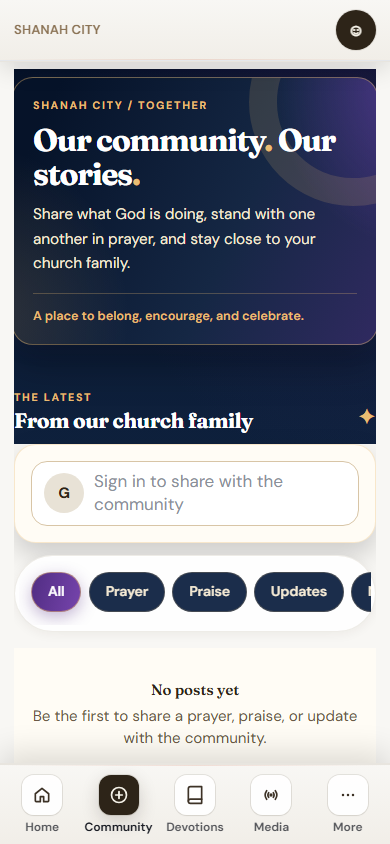
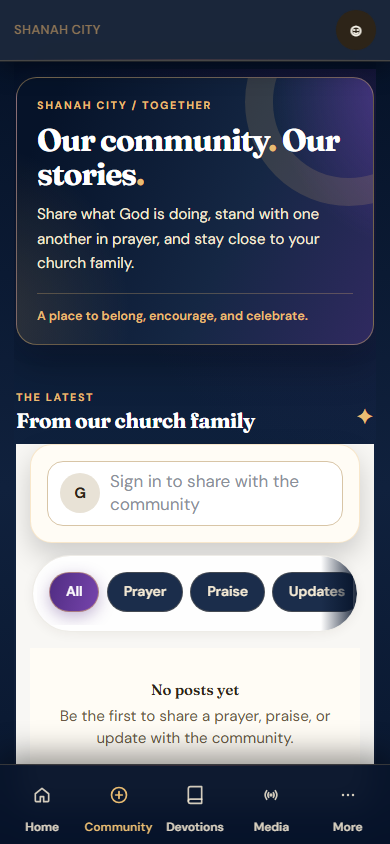
Premium V4 community visual QA: gutters, filters, cinematic nav.
16px feed gutters, scroll affordance on filter pills, shared cinematic mobile chrome, and refreshed Playwright captures.

diff --git a/src/app/premium-v4-cinematic-chrome.css b/src/app/premium-v4-cinematic-chrome.css
@@ -1,0 +1,69 @@
+/* Premium V4 cinematic shell ΓÇö mobile header/nav on live, sermons, community */
+
+body.premium-v4-cinematic-active {
+  background: #061329 !important;
+}
+
+body.premium-v4-cinematic-active .app-main {
+  background: linear-gradient(180deg, #061329 0%, #10213d 48%, #061329 100%);
+}
+
+body.premium-v4-cinematic-active .mobile-app-header,
+body.premium-v4-cinematic-active[data-shell="mobile"] .mobile-app-header {
+  background: rgba(6, 19, 41, 0.92) !important;
+  border-bottom-color: rgba(233, 188, 114, 0.22) !important;
+  backdrop-filter: blur(16px);
+  box-shadow: 0 1px 0 rgba(233, 188, 114, 0.12), 0 8px 24px rgba(0, 0, 0, 0.35) !important;
+}
+
+body.premium-v4-cinematic-active .mobile-app-header .text-night-900,
+body.premium-v4-cinematic-active .mobile-app-header .text-night-700,
+body.premium-v4-cinematic-active .mobile-app-header .text-night-600 {
+  color: #f6ebd5 !important;
+}
+
+body.premium-v4-cinematic-active .app-mobile-bottom-nav,
+body.premium-v4-cinematic-active[data-shell="mobile"] .mobile-bottom-nav {
+  background: rgba(6, 19, 41, 0.97) !important;
+  border-top: 1px solid rgba(233, 188, 114, 0.2) !important;
+  box-shadow: 0 -8px 32px rgba(0, 0, 0, 0.45) !important;
+}
+
+body.premium-v4-cinematic-active[data-shell="mobile"] .mobile-bottom-nav::after {
+  background: rgba(6, 19, 41, 0.97) !important;
+}
+
+body.premium-v4-cinematic-active[data-shell="mobile"] .mobile-bottom-nav .mobile-nav-link,
+body.premium-v4-cinematic-active[data-shell="mobile"] .mobile-bottom-nav .mobile-nav-link.text-night-700,
+body.premium-v4-cinematic-active[data-shell="mobile"] .mobile-bottom-nav .mobile-nav-link.text-night-900 {
+  color: #f6ebd5e0 !important;
+}
+
+body.premium-v4-cinematic-active[data-shell="mobile"] .mobile-bottom-nav .mobile-nav-link.is-active,
+body.premium-v4-cinematic-active[data-shell="mobile"] .mobile-bottom-nav .mobile-nav-link.is-active.text-night-900 {
+  color: #e9bc72 !important;
+}
+
+body.premium-v4-cinematic-active[data-shell="mobile"] .mobile-bottom-nav .mobile-nav-label {
+  color: inherit !important;
+  opacity: 1 !important;
+}
+
+body.premium-v4-cinematic-active[data-shell="mobile"] .mobile-nav-icon-shell,
+body.premium-v4-cinematic-active[data-shell="mobile"] .mobile-nav-icon-shell[class*="bg-"] {
+  background: transparent !important;
+  background-color: transparent !important;
+  box-shadow: none !important;
+  --tw-ring-shadow: 0 0 #0000 !important;
+  --tw-shadow: 0 0 #0000 !important;
+  border: none !important;
+  color: inherit !important;
+}
+
+body.premium-v4-cinematic-active[data-shell="mobile"] .mobile-nav-link.is-active .mobile-nav-icon-shell {
+  color: #e9bc72 !important;
+}
+
+body.premium-v4-cinematic-active[data-shell="mobile"] .mobile-nav-link:not(.is-active) .mobile-nav-icon-shell {
+  color: #f6ebd5d9 !important;
+}

diff --git a/src/app/community/community-refresh.css b/src/app/community/community-refresh.css
@@ -71,7 +71,8 @@
   align-items: end;
   justify-content: space-between;
   gap: 1rem;
-  margin: 1.2rem .875rem .7rem;
+  margin: 1.2rem 1rem .7rem;
+  padding-inline: 0;
 }
 .community-refresh-feed-heading h2 {
   margin: .24rem 0 0;
@@ -187,8 +188,8 @@
   padding: 2rem 1rem;
 }
 @media (max-width: 640px) {
-  .community-refresh-hero { margin-inline: .75rem; border-radius: 1.3rem; padding: 1.25rem; }
-  .community-refresh-feed-heading { margin-inline: .875rem; }
+  .community-refresh-hero { margin-inline: 1rem; border-radius: 1.3rem; padding: 1.25rem; }
+  .community-refresh-feed-heading { margin-inline: 1rem; }
   body[data-shell="mobile"] .community-refresh .community-feed-solid .community-post-card {
     border: 1px solid var(--color-border);
     border-radius: 1.3rem;
@@ -272,8 +273,39 @@ html.dark .community-refresh.sc-v4-community .community-refresh-kicker {
 }
 .community-refresh.sc-v4-community .community-page-stories {
   border-radius: 1rem;
-  margin-inline: .75rem;
+  margin-inline: 1rem;
   padding: .25rem 0;
+  max-width: calc(100% - 2rem);
+}
+.community-refresh.sc-v4-community .community-refresh-feed-heading {
+  margin-inline: 1rem;
+}
+.community-refresh.sc-v4-community .community-feed-tabs-sticky {
+  margin-inline: 1rem;
+  max-width: calc(100% - 2rem);
+  overflow: hidden;
+  border-radius: 9999px;
+}
+.community-refresh.sc-v4-community .community-feed-tabs-sticky::after {
+  content: "";
+  position: absolute;
+  top: 0;
+  right: 0;
+  bottom: 0;
+  width: 2.25rem;
+  pointer-events: none;
+  border-radius: 0 9999px 9999px 0;
+  background: linear-gradient(to left, rgba(6, 19, 41, .92), transparent);
+}
+.community-refresh.sc-v4-community .community-feed-tabs {
+  flex-wrap: nowrap;
+  scroll-padding-inline: 1rem;
+  -webkit-overflow-scrolling: touch;
+  overscroll-behavior-x: contain;
+}
+.community-refresh.sc-v4-community .community-feed-solid {
+  margin-inline: 1rem;
+  max-width: calc(100% - 2rem);
 }
 .community-refresh.sc-v4-community .community-feed-header {
   border: 1px solid rgba(233,188,114,.32);
@@ -331,8 +363,8 @@ html.dark .community-refresh.sc-v4-community .community-post-meta-type {
   outline-offset: 3px;
 }
 @media (max-width: 640px) {
-  .community-refresh.sc-v4-community { border-radius: 0; }
-  .community-refresh.sc-v4-community .community-refresh-hero { margin-inline: .75rem; }
+  .community-refresh.sc-v4-community { border-radius: 0; padding-inline: 0; }
+  .community-refresh.sc-v4-community .community-refresh-hero { margin-inline: 1rem; }
 }
 @media (prefers-reduced-motion: reduce) {
   .community-refresh.sc-v4-community *, 

diff --git a/e2e/premium-v4-community-mobile.spec.ts b/e2e/premium-v4-community-mobile.spec.ts
@@ -7,6 +7,7 @@ import {
   assertNoRuntimeErrors,
   waitForImages,
 } from "./premium-v4-screenshot-helpers";
+import { signInForCommunityScreenshots } from "./helpers/community-screenshot-auth";
 
 const artifactDir = path.join(
   process.cwd(),
@@ -28,7 +29,19 @@ test.describe("Premium V4 community mobile screenshots", () => {
       const { pageErrors, consoleErrors } = attachErrorCollectors(page);
       await page.setViewportSize({ width: vp.width, height: vp.height });
 
+      const signedIn = await signInForCommunityScreenshots(page);
+      if (!signedIn) {
+        test.info().annotations.push({
+          type: "note",
+          description:
+            "Guest capture — set PLAYWRIGHT_COMMUNITY_EMAIL and PLAYWRIGHT_COMMUNITY_PASSWORD for signed-in feed/stories.",
+        });
+      }
+
       await page.goto("/community", { waitUntil: "networkidle" });
+      await page.waitForFunction(() =>
+        document.body.classList.contains("premium-v4-cinematic-active"),
+      );
       await page.waitForSelector(".sc-v4-community", { timeout: 90_000 });
       await page.waitForSelector("#community-refresh-title", { timeout: 30_000 });
       await page.waitForSelector(".community-page-stories", { timeout: 30_000 });

diff --git a/src/components/design/PremiumV4CinematicChrome.tsx b/src/components/design/PremiumV4CinematicChrome.tsx
@@ -1,0 +1,25 @@
+"use client";
+
+import { useLayoutEffect } from "react";
+import { usePathname } from "next/navigation";
+import { useAppShell } from "@/components/app/AppShellContext";
+import { premiumV4ThemeForPath } from "@/lib/premium-v4-design-system";
+
+const BODY_CLASS = "premium-v4-cinematic-active";
+
+/** Mobile header + bottom nav on V4 cinematic routes (live, sermons, community). */
+export function PremiumV4CinematicChrome() {
+  const pathname = usePathname();
+  const { isMobileApp } = useAppShell();
+  const active = isMobileApp && premiumV4ThemeForPath(pathname) === "cinematic";
+
+  useLayoutEffect(() => {
+    if (typeof document === "undefined") return;
+    document.body.classList.toggle(BODY_CLASS, active);
+    return () => {
+      document.body.classList.remove(BODY_CLASS);
+    };
+  }, [active]);
+
+  return null;
+}

diff --git a/scripts/premium-v4-community-stories.test.ts b/scripts/premium-v4-community-stories.test.ts
@@ -2,10 +2,13 @@ import assert from "node:assert/strict";
 import { readFileSync } from "node:fs";
 
 const page = readFileSync("src/app/community/page.tsx", "utf8");
+const globals = readFileSync("src/app/globals.css", "utf8");
 const css = readFileSync("src/app/community/community-refresh.css", "utf8");
 const feed = readFileSync("src/components/community/CommunityFeed.tsx", "utf8");
 
+assert.match(globals, /@import "\.\/premium-v4-cinematic-chrome\.css";/);
 assert.match(page, /community-refresh sc-v4-community/, "V4 is opt-in on church-wide Community");
+assert.match(css, /community-refresh-feed-heading[\s\S]*margin.*1rem/);
 assert.match(css, /\.community-refresh\.sc-v4-community/, "V4 CSS remains route-scoped");
 assert.match(css, /#061329/);
 assert.match(css, /#512d83/i);

diff --git a/src/components/app/AppShell.tsx b/src/components/app/AppShell.tsx
@@ -28,6 +28,7 @@ import { BackgroundPlaybackProvider } from "@/components/app/BackgroundPlaybackP
 import { DevotionPlayerProvider } from "@/components/devotions/DevotionPlayerProvider";
 import { SermonPlayerProvider } from "@/components/sermons/SermonPlayerProvider";
 import { TopBar } from "@/components/app/TopBar";
+import { PremiumV4CinematicChrome } from "@/components/design/PremiumV4CinematicChrome";
 
 
 
@@ -49,6 +50,7 @@ export function AppShell({ children }: { children: React.ReactNode }) {
           <BackgroundPlaybackProvider>
 
           <NativeAppBoot />
+          <PremiumV4CinematicChrome />
           <AppRefreshBridge />
           <AppNotificationBadgeSync />
 

diff --git a/e2e/helpers/community-screenshot-auth.ts b/e2e/helpers/community-screenshot-auth.ts
@@ -1,0 +1,14 @@
+import { expect, type Page } from "@playwright/test";
+
+/** Optional member session for community screenshot captures. */
+export async function signInForCommunityScreenshots(page: Page) {
+  const email = process.env.PLAYWRIGHT_COMMUNITY_EMAIL?.trim();
+  const password = process.env.PLAYWRIGHT_COMMUNITY_PASSWORD;
+  if (!email || !password) return false;
+
+  const res = await page.request.post("/api/auth", {
+    data: { action: "signin", email, password },
+  });
+  expect(res.ok(), await res.text()).toBeTruthy();
+  return true;
+}

diff --git a/src/app/globals.css b/src/app/globals.css
@@ -5,6 +5,7 @@
 @import "./premium-home.css";
 @import "./premium-home-v4.css";
 @import "./premium-v4-system.css";
+@import "./premium-v4-cinematic-chrome.css";
 
 @layer base {
   :root {

diff --git a/docs/premium-v4-community-screenshots/README.md b/docs/premium-v4-community-screenshots/README.md
@@ -2,7 +2,14 @@
 
 ```bash
 npm run build
-PLAYWRIGHT_BASE_URL=http://127.0.0.1:3010 npx playwright test -c playwright.premium-v4-community.config.ts
+PLAYWRIGHT_BASE_URL=http://127.0.0.1:3021 npx playwright test -c playwright.premium-v4-community.config.ts
+```
+
+Optional signed-in captures (member with stories/posts in the connected database):
+
+```bash
+PLAYWRIGHT_COMMUNITY_EMAIL=you@example.com PLAYWRIGHT_COMMUNITY_PASSWORD=... ^
+  PLAYWRIGHT_BASE_URL=http://127.0.0.1:3021 npx playwright test -c playwright.premium-v4-community.config.ts
 ```
 
 Captures `/community` hero + Stories, scrolled feed, and full-page at 390×844 and 430×932.
